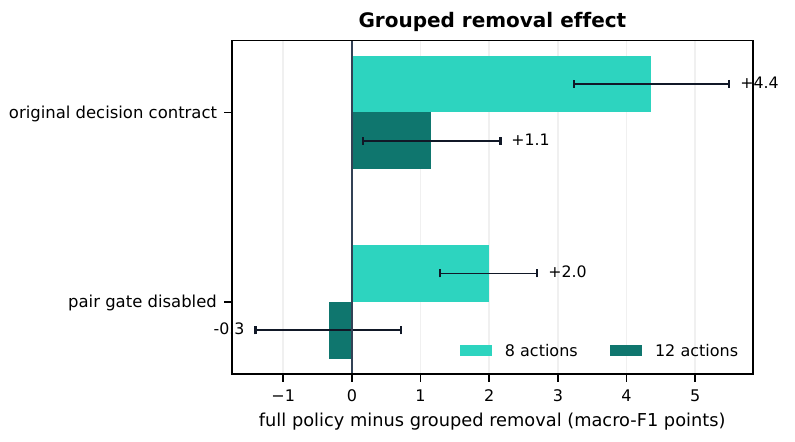
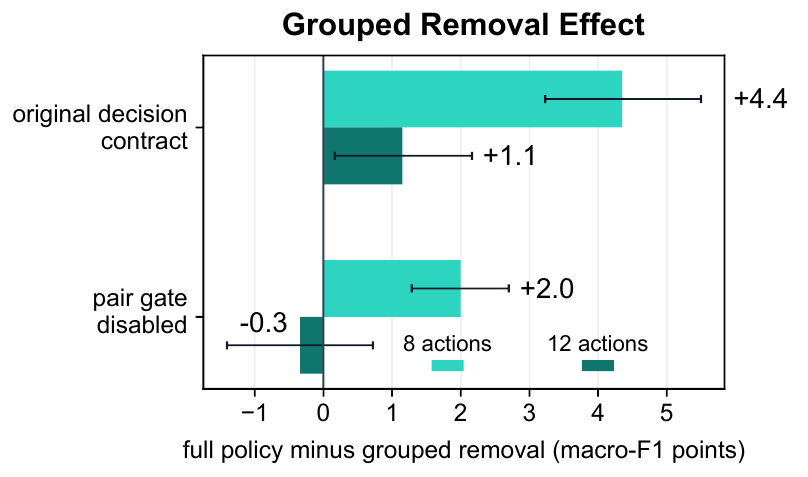
Use latest Zuyi ICRA figures on SafeVantage page

Changed region(s): [[0.0, 0.0, 0.9962, 0.8824], [0.2113, 0.8824, 0.9358, 0.9706], [0.9358, 0.0882, 0.966, 0.1176]]

diff --git a/index.html b/index.html
@@ -45,7 +45,7 @@
           <img src="./static/images/figures/safevantage-teaser.png" alt="SafeVantage links semantic claims to supporting views and selective decisions">
         </figure>
         <div class="teaser-copy">
-          <p id="teaser-heading">A memory for deciding what an embodied agent has seen, what remains uncertain, and which view should come next.</p>
+          <p id="teaser-heading"><strong>Overview of SafeVantage.</strong> A vantage-aware memory that retains the viewpoints supporting each claim and uses the evidence to select the next view and make the final <em>Yes</em>, <em>No</em>, or <em>Abstain</em> decision.</p>
         </div>
       </div>
     </section>
@@ -54,7 +54,7 @@
       <div class="container is-max-desktop reading-column">
         <h2 id="abstract-heading">Abstract</h2>
         <div class="prose">
-          <p>Embodied agents must decide both <em>where to look</em> and <em>when the evidence warrants a decision</em>. SafeVantage is a semantic memory and active-perception policy that records the views supporting each claim. The policy uses this evidence state to select corroborating views and to output <strong>Yes</strong>, <strong>No</strong>, or <strong>Wait</strong>.</p>
+          <p>Embodied agents must decide both <em>where to look</em> and <em>when the evidence warrants a decision</em>. SafeVantage is a semantic memory and active-perception policy that records the views supporting each claim. The policy uses this evidence state to select corroborating views and to output <strong>Yes</strong>, <strong>No</strong>, or <strong>Abstain</strong>.</p>
           <p>On a held-out ProcTHOR test spanning 232 unseen houses and 7,424 paired episodes per method and action budget, SafeVantage raises macro-F1 from 0.4845 to 0.5289 and reduces travel from 7.23 to 3.56 m at eight actions, while risk falls from 0.3964 to 0.3872. At twelve actions, macro-F1 rises from 0.5855 to 0.6270, risk falls from 0.3685 to 0.3523, and travel falls from 8.42 to 7.90 m.</p>
           <p>On a separate 96-house cohort, removing supporting-view identity, target-ray alignment, and yaw diversity lowers macro-F1 by 4.35 points at eight actions and 1.15 at twelve. Equal-input HM3D comparisons show lower selective risk, and ScanNet interventions show that answer quality decreases when supporting views are removed and recovers when they are restored.</p>
         </div>
@@ -66,11 +66,11 @@
         <h2 id="method-heading">Method</h2>
         <div class="prose">
           <p>For each scene, SafeVantage captures posed observations containing RGB, optional depth, camera pose, and time. A semantic claim is represented by its supporting views, support count, and optional 3D target estimate. This record preserves which observations justify a claim and distinguishes one weak observation from a repeated spatial pattern.</p>
-          <p>The memory separates target visibility, property or relation sufficiency, search coverage, and answer correctness. Before a provisional detection, the policy balances spatial novelty, category-room evidence, and travel. After a detection, it seeks a corroborating view from a distinct position and uses the resulting evidence state for the final decision. The selective head emits <strong>Yes</strong>, <strong>No</strong>, or <strong>Wait</strong> under calibrated thresholds.</p>
+          <p>The memory separates target visibility, property or relation sufficiency, search coverage, and answer correctness. Before a provisional detection, the policy balances spatial novelty, category-room evidence, and travel. After a detection, it seeks a corroborating view from a distinct position and uses the resulting evidence state for the final decision. The selective head emits <strong>Yes</strong>, <strong>No</strong>, or <strong>Abstain</strong> under calibrated thresholds.</p>
         </div>
         <figure class="figure-panel">
-          <img src="./static/images/figures/coverage-evidence.png" alt="Spatial coverage and evidence-sufficient decisions">
-          <figcaption><strong>Figure 2.</strong> Spatial coverage determines whether a view supports, defers, or cannot resolve a claim.</figcaption>
+          <img src="./static/images/figures/coverage-evidence.png" alt="Viewpoint support and search coverage provide complementary evidence">
+          <figcaption><strong>Figure 2.</strong> Viewpoint support and search coverage provide complementary evidence.</figcaption>
         </figure>
       </div>
     </section>
@@ -82,9 +82,8 @@
           <p>At eight actions, SafeVantage improves macro-F1 from 0.4845 to 0.5289, raises answer rate from 0.3772 to 0.4296, cuts travel from 7.23 to 3.56 m, and reduces mean risk from 0.3964 to 0.3872. At twelve actions, macro-F1 improves from 0.5855 to 0.6270 and risk falls from 0.3685 to 0.3523.</p>
         </div>
         <div class="results-figures">
-          <figure class="figure-panel"><img src="./static/images/figures/baseline-comparison.png" alt="SafeVantage compared with five equal-budget acquisition policies"><figcaption><strong>Figure 3.</strong> SafeVantage compared with equal-budget acquisition policies.</figcaption></figure>
-          <figure class="figure-panel"><img src="./static/images/figures/trajectory-focus.png" alt="Held-out trajectory showing SafeVantage reaching resolving evidence"><figcaption><strong>Figure 4.</strong> A held-out episode reaching resolving evidence sooner.</figcaption></figure>
-          <figure class="figure-panel"><img src="./static/images/figures/vantage-ablation.png" alt="Ablation of vantage-aware memory components"><figcaption><strong>Figure 5.</strong> Removing vantage-aware state lowers macro-F1.</figcaption></figure>
+          <figure class="figure-panel"><img src="./static/images/figures/trajectory-focus.png" alt="One held-out episode comparing category-room prior with SafeVantage"><figcaption><strong>Figure 3.</strong> One held-out episode for “Is there a paper towel in the room?”</figcaption></figure>
+          <figure class="figure-panel"><img src="./static/images/figures/vantage-ablation.png" alt="Ablation of vantage-aware memory components"><figcaption><strong>Figure 4.</strong> Removing vantage-aware state lowers macro-F1.</figcaption></figure>
         </div>
         <div class="prose"><p>Equal-input HM3D experiments and ScanNet view-removal studies test the same representation outside ProcTHOR. The paper source package contains the complete methods, tables, bibliography, and figure files.</p></div>
       </div>

diff --git a/paper_source/main.tex b/paper_source/main.tex
@@ -42,8 +42,8 @@ Embodied agents must decide both \emph{where to look} and \emph{when the evidenc
 
 \begin{figure}[t]
   \centering
-  \includegraphics[width=\linewidth]{figures/heyefig1.png}
-  \caption{\textbf{\method{} links semantic claims to supporting views.} The policy uses the same evidence state to choose the next view and the final \textsc{Yes}/\textsc{No}/\textsc{Wait} decision.}
+  \includegraphics[width=\linewidth]{figures/zuyi_figure/framework_v2.pdf}
+  \caption{\textbf{Overview of \method{}.} A vantage-aware memory retains the viewpoints supporting each claim and uses the evidence to select the next view and make the final \textsc{Yes}/\textsc{No}/\textsc{Abstain} decision.}
   \label{fig:teaser}
 \end{figure}
 
@@ -131,17 +131,13 @@ All compared policies operate on the same action graph. Random chooses a determi
 
 \begin{figure*}[t]
   \centering
-  \includegraphics[width=0.96\textwidth]{figures/fig_2v1.png}
+  \includegraphics[width=0.96\textwidth]{figures/zuyi_figure/method.pdf}
   \caption{
-  \textbf{Spatial coverage bounds evidence-sufficient decisions.}
-  (a) Candidate viewpoints are restricted to valid navigable space.
-  Views with direct target visibility provide positive support for a claim,
-  whereas partial or context-only observations remain unresolved.
-  (b) Different coverage states imply different claim-level decisions:
-  sufficient target evidence supports a positive commitment, while partial
-  or context-only evidence should trigger deferment rather than an
-  unsupported absence decision. This distinction separates
-  \emph{missing evidence} from \emph{evidence of absence}.
+  \textbf{Viewpoint support and search coverage provide complementary evidence.}
+  Navigable viewpoints differ in the target evidence they reveal. Supporting
+  observations provide positive evidence, whereas partial or context-only
+  observations do not justify absence. Retained views and target geometry
+  inform subsequent acquisition and selective decisions.
   }
   \label{fig:coverage}
 \end{figure*}
@@ -209,20 +205,12 @@ At eight actions, the strongest validation-selected comparator is category--room
 
 
 
-\begin{figure}[t]
-  \centering
-  \includegraphics[width=\linewidth]{figures/fig_locked_all_baseline_forest_right_favorable_v2.pdf}
-  \caption{\textbf{SafeVantage versus five equal-budget policies.} Points are paired differences; bars are 95\% scene-bootstrap intervals. Favorable values point left for risk/travel and right for macro-F1.}
-  \label{fig:locked-forest}
-\end{figure}
-
-Figure~\ref{fig:locked-forest} expands the comparison to all five baselines. \method{} ranks first in risk, macro-F1, and answer rate at both horizons, and travel is lower than four of five baselines. Nearest frontier travels 0.10~m less at eight actions and 2.63~m less at twelve, while \method{} improves macro-F1 by 0.0380/0.1630 and risk by 0.0109/0.0432.
 Figure~\ref{fig:locked-traces} follows one held-out positive query from route selection to decision. From the same start and eight-action budget, category--room prior travels 13.7~m without observing the paper towel and answers \textsc{No}; \method{} reaches the resolving view in 5.4~m and answers \textsc{Yes}.
 
 \begin{figure}[t]
   \centering
-  \includegraphics[width=\linewidth]{figures/fig_locked_trajectory_focus.pdf}
-  \caption{\textbf{One held-out ProcTHOR episode.} From the same start and budget, SafeVantage observes the paper towel, answers \textsc{Yes}, and travels 5.4~m versus 13.7~m.}
+  \includegraphics[width=\linewidth]{figures/zuyi_figure/example_v2.pdf}
+  \caption{\textbf{One held-out episode for ``Is there a paper towel in the room?''} Both policies start from the same start with an 8-action budget and a positive ground-truth label. Category--room prior does not observe the target, answers \textsc{No}, and travels 13.7~m; \method{} acquires four supporting views, answers \textsc{Yes}, and travels 5.4~m.}
   \label{fig:locked-traces}
 \end{figure}
 
@@ -235,7 +223,7 @@ To test the mechanism directly, we remove supporting-view identity, target-ray a
     width=\linewidth,
     height=0.25\textheight,
     keepaspectratio
-  ]{figures/fig_grouped_vantage_ablation_cropped.pdf}
+  ]{figures/zuyi_figure/Fig_4.pdf}
   \caption{\textbf{Removing vantage-aware state lowers macro-F1.} Bars show full policy minus grouped removal on 96 validation houses; whiskers are paired 95\% intervals.}
   \label{fig:grouped-vantage}
 \end{figure}
